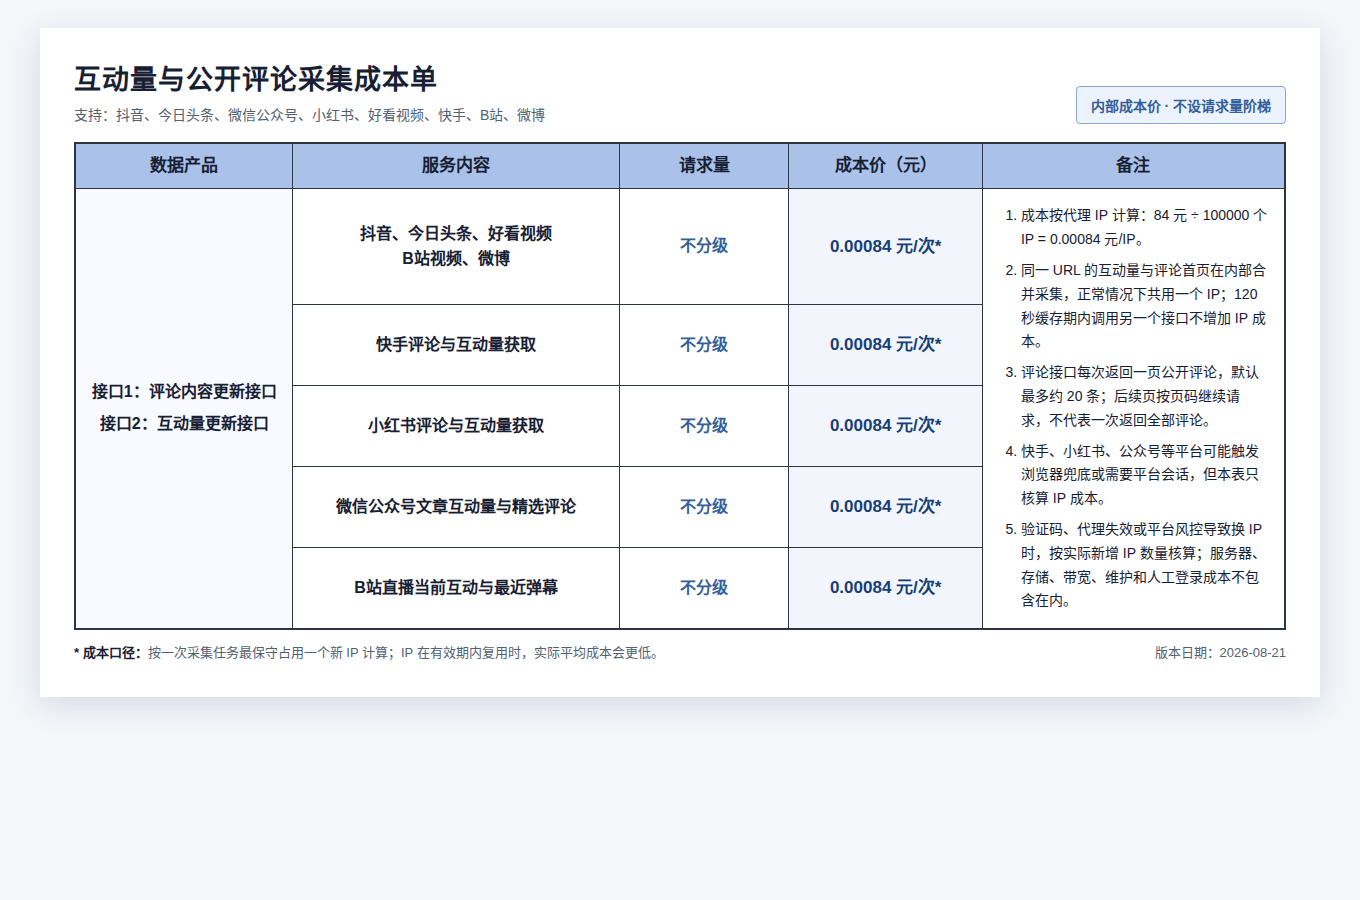
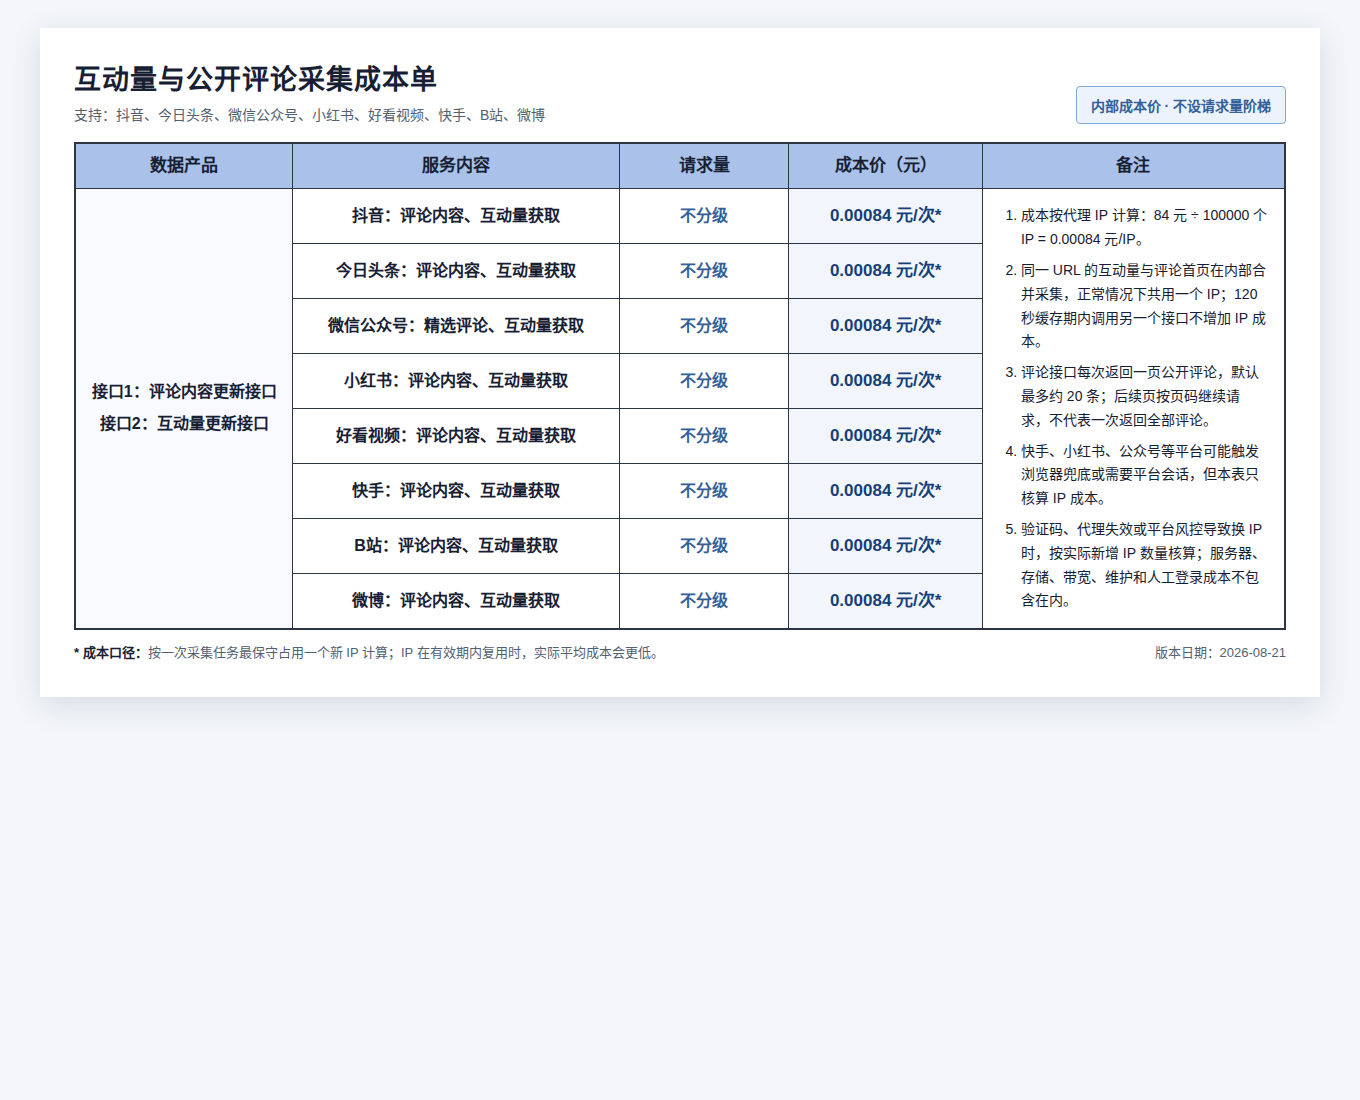
List each platform separately in cost sheet

diff --git a/docs/ENGAGEMENT_COST_SHEET.html b/docs/ENGAGEMENT_COST_SHEET.html
@@ -190,14 +190,14 @@
       </thead>
       <tbody>
         <tr>
-          <td class="product-cell" rowspan="5">
+          <td class="product-cell" rowspan="8">
             <span class="api-line">接口1：评论内容更新接口</span>
             <span class="api-line">接口2：互动量更新接口</span>
           </td>
-          <td class="service-cell">抖音、今日头条、好看视频<br>B站视频、微博</td>
+          <td class="service-cell">抖音：评论内容、互动量获取</td>
           <td class="volume-cell">不分级</td>
           <td class="cost-cell">0.00084 元/次*</td>
-          <td class="note-cell" rowspan="5">
+          <td class="note-cell" rowspan="8">
             <ol>
               <li>成本按代理 IP 计算：84 元 ÷ 100000 个 IP = 0.00084 元/IP。</li>
               <li>同一 URL 的互动量与评论首页在内部合并采集，正常情况下共用一个 IP；120 秒缓存期内调用另一个接口不增加 IP 成本。</li>
@@ -208,22 +208,37 @@
           </td>
         </tr>
         <tr>
-          <td class="service-cell">快手评论与互动量获取</td>
+          <td class="service-cell">今日头条：评论内容、互动量获取</td>
           <td class="volume-cell">不分级</td>
           <td class="cost-cell">0.00084 元/次*</td>
         </tr>
         <tr>
-          <td class="service-cell">小红书评论与互动量获取</td>
+          <td class="service-cell">微信公众号：精选评论、互动量获取</td>
           <td class="volume-cell">不分级</td>
           <td class="cost-cell">0.00084 元/次*</td>
         </tr>
         <tr>
-          <td class="service-cell">微信公众号文章互动量与精选评论</td>
+          <td class="service-cell">小红书：评论内容、互动量获取</td>
           <td class="volume-cell">不分级</td>
           <td class="cost-cell">0.00084 元/次*</td>
         </tr>
         <tr>
-          <td class="service-cell">B站直播当前互动与最近弹幕</td>
+          <td class="service-cell">好看视频：评论内容、互动量获取</td>
+          <td class="volume-cell">不分级</td>
+          <td class="cost-cell">0.00084 元/次*</td>
+        </tr>
+        <tr>
+          <td class="service-cell">快手：评论内容、互动量获取</td>
+          <td class="volume-cell">不分级</td>
+          <td class="cost-cell">0.00084 元/次*</td>
+        </tr>
+        <tr>
+          <td class="service-cell">B站：评论内容、互动量获取</td>
+          <td class="volume-cell">不分级</td>
+          <td class="cost-cell">0.00084 元/次*</td>
+        </tr>
+        <tr>
+          <td class="service-cell">微博：评论内容、互动量获取</td>
           <td class="volume-cell">不分级</td>
           <td class="cost-cell">0.00084 元/次*</td>
         </tr>
